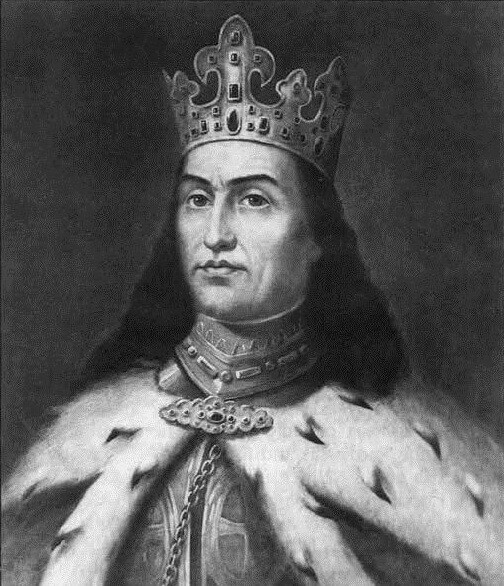
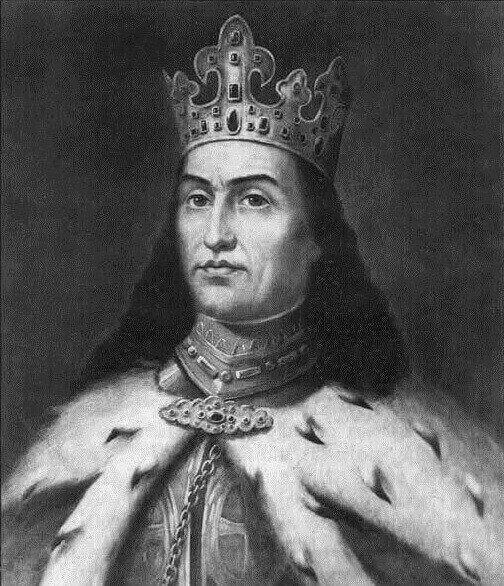
fix hero image replace with same image reduce dimension

diff --git a/assets/css/style.css b/assets/css/style.css
@@ -19,7 +19,6 @@ p {
 
 /* header, main image and nav bar*/
 
-
 h1,
 h2,
 h3 {
@@ -122,7 +121,6 @@ a:hover {
     background: rgba(255, 255, 255, 0.5);
     box-sizing: border-box;
 }
-
 
 .ind-right-div {
     width: 100%;
@@ -443,8 +441,8 @@ footer {
 @media screen and (max-width: 600px) {
     .battle-img {
         display: block;
-        height: auto;
-        width: 100%;
+        height: 230px;
+        width: 270px;
         padding-right: 0;
     }
 
